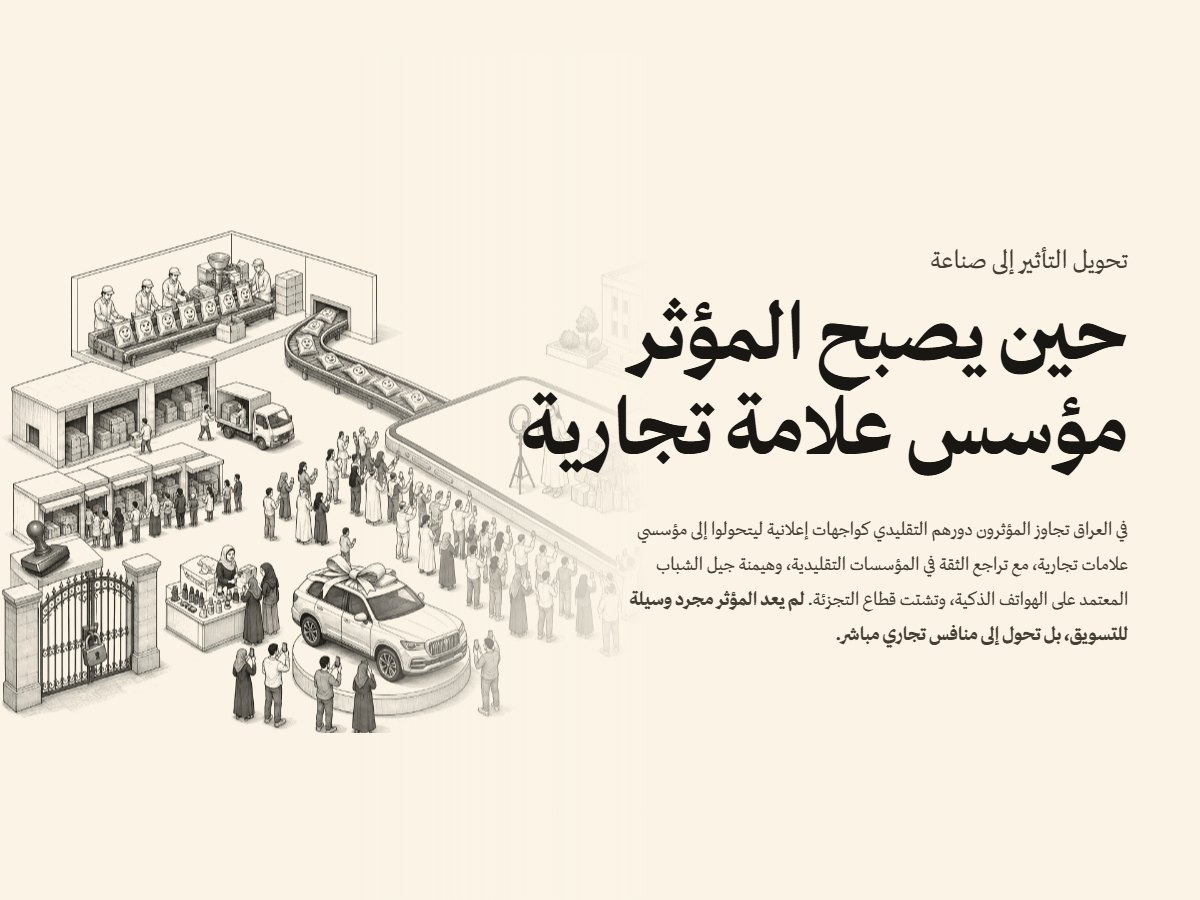
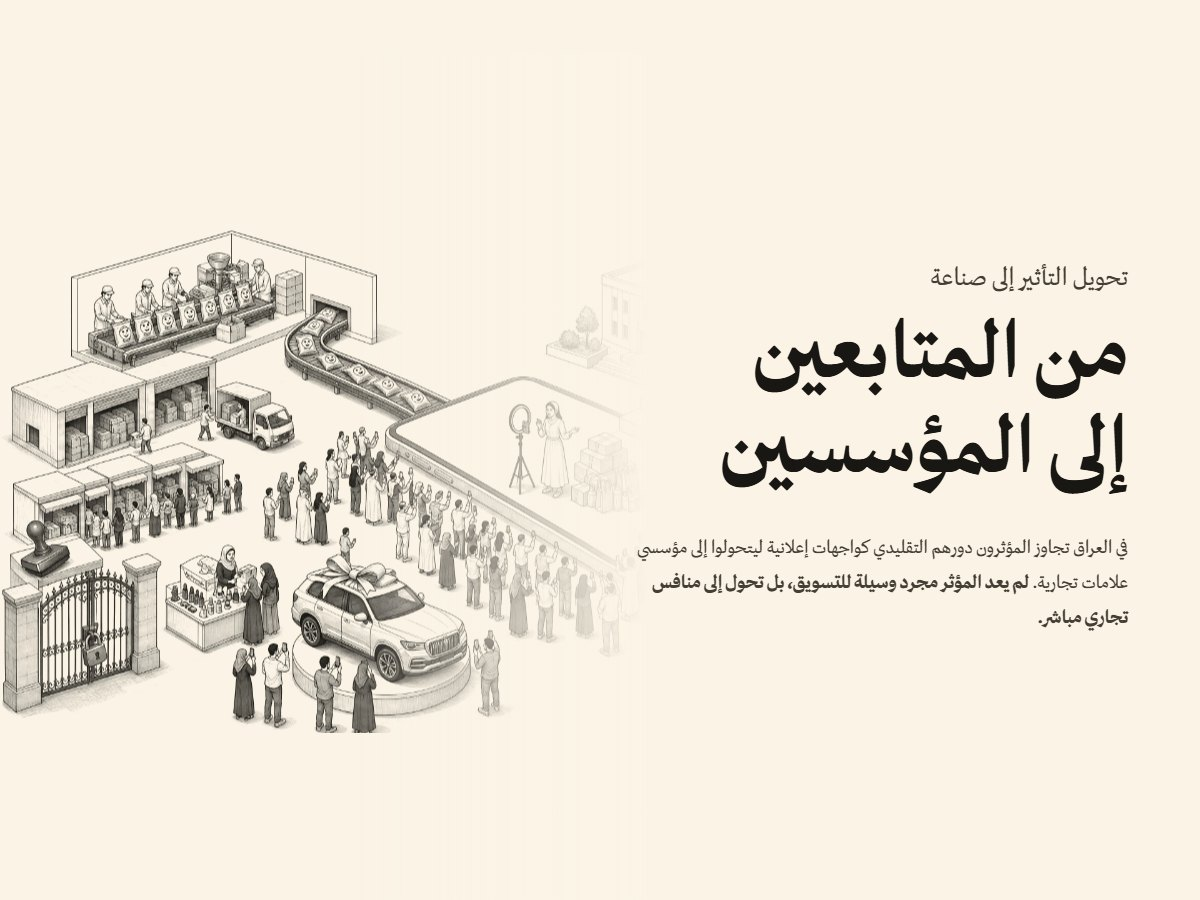
Shorter titles in both editions, so the English fits the screen

Changed region(s): [[0.4317, 0.28, 0.9558, 0.7156]]

diff --git a/iraq-creator-economy-ar/index.html b/iraq-creator-economy-ar/index.html
@@ -605,8 +605,8 @@
       <div class="flow" id="flow">
 
         <header class="opening" data-kind="scene" data-layer="v-world" data-x="0.5000" data-y="0.5000" data-span="all" data-fb-layer="v-world" data-fb-x="0.5000" data-fb-y="0.5000" data-fb-span="all" data-label="الهاتف صار الأرض">
-          <h1><span class="h1-topic">تحويل التأثير إلى صناعة</span><span class="h1-main">حين يصبح المؤثر مؤسس علامة تجارية</span></h1>
-          <p class="dek">في العراق تجاوز المؤثرون دورهم التقليدي كواجهات إعلانية ليتحولوا إلى مؤسسي علامات تجارية، مع تراجع الثقة في المؤسسات التقليدية، وهيمنة جيل الشباب المعتمد على الهواتف الذكية، وتشتت قطاع التجزئة. <em>لم يعد المؤثر مجرد وسيلة للتسويق، بل تحول إلى منافس تجاري مباشر.</em></p>
+          <h1><span class="h1-topic">تحويل التأثير إلى صناعة</span><span class="h1-main">من المتابعين إلى المؤسسين</span></h1>
+          <p class="dek">في العراق تجاوز المؤثرون دورهم التقليدي كواجهات إعلانية ليتحولوا إلى مؤسسي علامات تجارية. <em>لم يعد المؤثر مجرد وسيلة للتسويق، بل تحول إلى منافس تجاري مباشر.</em></p>
           <div class="byline">
             <p><b>قراءة تفاعلية</b>نيسان 2026</p>
             <p><b>Kapita Research</b>بغداد</p>
@@ -618,7 +618,7 @@
         
         <section class="chapter" id="chapter-1" data-chapter="قبل" data-kind="scene" data-layer="v-world" data-x="0.8400" data-y="0.5200" data-span="0.320" data-fb-layer="v-world" data-fb-x="0.5000" data-fb-y="0.5000" data-fb-span="all" data-label="الطريق القديم">
           <p class="ch-num" aria-hidden="true">1</p>
-          <h2><span class="vh">الفصل 1: </span>فراغ الثقة في المؤسسات</h2>
+          <h2><span class="vh">الفصل 1: </span>فراغ الثقة</h2>
           <p>ما يمنح العراق خصوصيته الهيكلية هو غياب «نقاط الاحتكاك» التقليدية: فلا إعلام رسمي ينافس على الثقة، ولا عوائق مالية ضخمة لدخول السوق.</p>
         </section>
         
@@ -637,7 +637,7 @@
         
         <section class="beat" id="b1-2" data-kind="scene" data-layer="v-world" data-panel="chart" data-x="0.7600" data-y="0.4700" data-span="0.160" data-fb-layer="v-world" data-fb-x="0.8400" data-fb-y="0.5200" data-fb-span="0.320" data-label="تلفزيون الدولة بلا مشاهدين">
           <p class="tag">انتشار الإنترنت في العراق</p>
-          <h3>من أسرع المسارات في المنطقة</h3>
+          <h3>من الأسرع في المنطقة</h3>
           
           
           <figure class="viz chart viz-bars" style="--vw:6ch">
@@ -661,7 +661,7 @@
         
         <section class="beat" id="b1-3" data-kind="scene" data-layer="v-world" data-x="0.8850" data-y="0.4700" data-span="0.130" data-fb-layer="v-world" data-fb-x="0.8400" data-fb-y="0.5200" data-fb-span="0.320" data-label="ظهورهم للتلفزيون، وجوههم للهواتف">
           <p class="tag">جيل الهواتف الذكية</p>
-          <h3>برهان على نموذج اقتصادي بديل</h3>
+          <h3>نموذج اقتصادي بديل</h3>
           <p class="fig"><span class="fig-v"><bdi>42%</bdi></span><span class="fig-l">من سكان العراق دون سن 25</span></p>
           
           
@@ -674,7 +674,7 @@
         
         <section class="beat" id="b1-4" data-kind="scene" data-layer="v-world" data-x="0.8750" data-y="0.7600" data-span="0.200" data-fb-layer="v-world" data-fb-x="0.8400" data-fb-y="0.5200" data-fb-span="0.320" data-label="المقهى">
           <p class="tag">اللهجة</p>
-          <h3>اللهجة العراقية بوصفها إشارة ثقة</h3>
+          <h3>اللهجة إشارة ثقة</h3>
           
           
           
@@ -687,13 +687,13 @@
         
         <section class="chapter" id="chapter-2" data-chapter="القناة" data-kind="scene" data-layer="v-world" data-x="0.5000" data-y="0.5000" data-span="0.420" data-fb-layer="v-world" data-fb-x="0.5000" data-fb-y="0.5000" data-fb-span="all" data-label="الهاتف صار الأرض">
           <p class="ch-num" aria-hidden="true">2</p>
-          <h2><span class="vh">الفصل 2: </span>كثافة جماهيرية تتجاوز الأسواق المماثلة</h2>
+          <h2><span class="vh">الفصل 2: </span>كثافة جماهيرية غير مسبوقة</h2>
           <p>صار المبدع الفرد بمثابة «محطة بث وطنية»، وصار الشراء «امتداداً للعلاقة» معه وليس مجرد صفقة عابرة.</p>
         </section>
         
         <section class="beat" id="b2-1" data-kind="scene" data-layer="v-world" data-panel="chart" data-x="0.4500" data-y="0.4500" data-span="0.150" data-fb-layer="v-world" data-fb-x="0.5000" data-fb-y="0.5000" data-fb-span="0.420" data-label="صانعة المحتوى على الشاشة">
           <p class="tag">أبرز المنصات من حيث الوصول الإعلاني</p>
-          <h3>تيك توك يصل إلى أكثر من 90% من مستخدمي الإنترنت</h3>
+          <h3>تيك توك يصل إلى أكثر من 90%</h3>
           
           
           <figure class="viz chart viz-bars" style="--vw:11ch">
@@ -721,7 +721,7 @@
         
         <section class="beat" id="b2-2" data-kind="scene" data-layer="v-world" data-x="0.6800" data-y="0.7200" data-span="0.150" data-fb-layer="v-world" data-fb-x="0.5000" data-fb-y="0.5000" data-fb-span="0.420" data-label="الطلب وصل">
           <p class="tag">واتساب</p>
-          <h3>الشراء عبر واتساب هو السلوك الأصيل للتجارة</h3>
+          <h3>البيع يُغلق عبر واتساب</h3>
           
           
           
@@ -734,7 +734,7 @@
         
         <section class="beat" id="b2-3" data-kind="scene" data-layer="v-world" data-panel="diagram" data-x="0.6000" data-y="0.4000" data-span="0.170" data-fb-layer="v-world" data-fb-x="0.5000" data-fb-y="0.5000" data-fb-span="0.420" data-label="الدرجات الأربع">
           <p class="tag">المسار الرباعي المراحل</p>
-          <h3>أربع مراحل استراتيجية</h3>
+          <h3>أربع مراحل</h3>
           
           
           
@@ -753,7 +753,7 @@
         
         <section class="beat" id="b2-4" data-kind="scene" data-layer="v-world" data-x="0.3500" data-y="0.6000" data-span="0.240" data-fb-layer="v-world" data-fb-x="0.5000" data-fb-y="0.5000" data-fb-span="0.420" data-label="الجمهور حول الشاشة">
           <p class="tag">المرجعية الثقافية</p>
-          <h3>سلطة تُكتسب بسرعة وتُستدام دون منازع</h3>
+          <h3>سلطة دون منازع</h3>
           
           
           
@@ -798,7 +798,7 @@
         
         <section class="beat" id="b3-3" data-kind="scene" data-layer="v-world" data-x="0.3100" data-y="0.7800" data-span="0.170" data-fb-layer="v-world" data-fb-x="0.2500" data-fb-y="0.7200" data-fb-span="0.300" data-label="سيارة الجائزة">
           <p class="tag">حين يكون المؤسس هو الشخصية</p>
-          <h3>وجهه هو الغلاف وصوته هو الرسالة</h3>
+          <h3>وجهه هو الغلاف</h3>
           
           
           
@@ -811,7 +811,7 @@
         
         <section class="beat" id="b3-4" data-kind="scene" data-layer="v-world" data-x="0.7050" data-y="0.2000" data-span="0.150" data-fb-layer="v-world" data-fb-x="0.2500" data-fb-y="0.7200" data-fb-span="0.300" data-label="حملة مصرف">
           <p class="tag">ما وراء السلع الاستهلاكية</p>
-          <h3>هذا الجمهور ملك لطالب، لا لـ FIB</h3>
+          <h3>هذا الجمهور ملك لطالب</h3>
           
           
           
@@ -830,7 +830,7 @@
         
         <section class="beat" id="b4-1" data-kind="scene" data-layer="v-world" data-panel="diagram" data-x="0.1500" data-y="0.1600" data-span="0.170" data-fb-layer="v-world" data-fb-x="0.1800" data-fb-y="0.3000" data-fb-span="0.360" data-label="الوجه على الكيس">
           <p class="tag">ثلاثة نماذج للدخول إلى السوق</p>
-          <h3>لماذا تنجح الجودة والجوائز ويفشل الاسم المجرد</h3>
+          <h3>لماذا يفشل الاسم المجرد</h3>
           
           
           
@@ -869,7 +869,7 @@
         
         <section class="beat" id="b4-3" data-kind="scene" data-layer="v-world" data-x="0.1100" data-y="0.5500" data-span="0.180" data-fb-layer="v-world" data-fb-x="0.1800" data-fb-y="0.3000" data-fb-span="0.360" data-label="دكاكين تعيد الطلب">
           <p class="tag">التوزيع</p>
-          <h3>القيد هو التوزيع لا الإنتاج</h3>
+          <h3>التوزيع لا الإنتاج</h3>
           <p class="fig"><span class="fig-v"><bdi>100,000+</bdi></span><span class="fig-l">نقطة بيع يُعاد التوريد إليها</span></p>
           
           
@@ -882,7 +882,7 @@
         
         <section class="beat" id="b4-4" data-kind="scene" data-layer="v-world" data-panel="chart" data-x="0.3100" data-y="0.7400" data-span="0.110" data-fb-layer="v-world" data-fb-x="0.1800" data-fb-y="0.3000" data-fb-span="0.360" data-label="الجائزة من الربح">
           <p class="tag">السيناريو الأعلى مقابل التحفظي</p>
-          <h3>سيارتان شهرياً: 0.7% من إجمالي الربح</h3>
+          <h3>0.7% من إجمالي الربح</h3>
           
           
           <figure class="viz chart viz-share" style="--vw:5ch">
@@ -905,7 +905,7 @@
         
         <section class="chapter" id="chapter-5" data-chapter="الحدود" data-kind="scene" data-layer="v-world" data-x="0.1400" data-y="0.7000" data-span="0.280" data-fb-layer="v-world" data-fb-x="0.5000" data-fb-y="0.5000" data-fb-span="all" data-label="البوابة">
           <p class="ch-num" aria-hidden="true">5</p>
-          <h2><span class="vh">الفصل 5: </span>المسار يعمل تحت قيود حقيقية</h2>
+          <h2><span class="vh">الفصل 5: </span>قيود حقيقية</h2>
           <p>تجاهلها يُنتج صورة مشوّهة عن كيفية عمل العلامات الخاصة للمبدعين العراقيين فعلياً.</p>
         </section>
         
@@ -930,7 +930,7 @@
         
         <section class="beat" id="b5-2" data-kind="scene" data-layer="v-world" data-panel="chart" data-x="0.4700" data-y="0.4700" data-span="0.260" data-fb-layer="v-world" data-fb-x="0.1400" data-fb-y="0.7000" data-fb-span="0.280" data-label="المنصة نفسها">
           <p class="tag">خطر حظر المنصة</p>
-          <h3>لم يُمنح الحظر الموافقة، لكن الخطر حقيقي</h3>
+          <h3>خطر الحظر حقيقي</h3>
           
           
           <figure class="viz chart viz-bars" style="--vw:11ch">
@@ -954,7 +954,7 @@
         
         <section class="beat" id="b5-3" data-kind="scene" data-layer="v-world" data-x="0.5550" data-y="0.1800" data-span="0.140" data-fb-layer="v-world" data-fb-x="0.1400" data-fb-y="0.7000" data-fb-span="0.280" data-label="الجهة الرسمية">
           <p class="tag">لوائح الأخلاق العامة</p>
-          <h3>المادة 403 تطال حتى المقاطع الكوميدية</h3>
+          <h3>حتى المقاطع الكوميدية</h3>
           <p class="fig"><span class="fig-v"><bdi>1,500+</bdi></span><span class="fig-l">قضية إلكترونية مرتبطة بالأخلاق منذ 2023، ومعها أكثر من 200 اعتقال</span></p>
           
           
@@ -967,7 +967,7 @@
         
         <section class="beat" id="b5-4" data-kind="scene" data-layer="v-world" data-panel="chart" data-x="0.3000" data-y="0.2800" data-span="0.150" data-fb-layer="v-world" data-fb-x="0.1400" data-fb-y="0.7000" data-fb-span="0.280" data-label="الوجه على الكيس يُنسخ">
           <p class="tag">المنتجات المقلّدة</p>
-          <h3>تسرّب السوق الموازية والمنتجات المقلّدة</h3>
+          <h3>تسرّب المنتجات المقلّدة</h3>
           
           
           <figure class="viz chart viz-share" style="--vw:4ch">
@@ -991,7 +991,7 @@
         
         <section class="beat" id="finale" data-kind="scene" data-layer="v-world" data-x="0.5000" data-y="0.5000" data-span="all" data-fb-layer="v-world" data-fb-x="0.5000" data-fb-y="0.5000" data-fb-span="all" data-label="الهاتف صار الأرض">
           <p class="tag">الخلاصة</p>
-          <h3>المسار الأكثر كفاءة نحو علامة وطنية</h3>
+          <h3>المسار الأكثر كفاءة</h3>
           <p class="pull">في العراق، المسار الأكثر كفاءة نحو علامة تجارية استهلاكية وطنية في 2026 لا يمر عبر شبكات التوزيع أو الإعلان فوق الخط، بل عبر العلاقة الاجتماعية الافتراضية للمبدع مع جمهوره.</p>
           <p class="body">المسار سريع ومنخفض الاحتكاك ومتزايد التنافس. وللعلامات العالمية الداخلة إلى العراق: المؤثر ليس شريك توزيع بل هو منافس.</p>
           

diff --git a/iraq-creator-economy/index.html b/iraq-creator-economy/index.html
@@ -603,8 +603,8 @@
       <div class="flow" id="flow">
 
         <header class="opening" data-kind="scene" data-layer="v-world" data-x="0.5000" data-y="0.5000" data-span="all" data-fb-layer="v-world" data-fb-x="0.5000" data-fb-y="0.5000" data-fb-span="all" data-label="The phone became the land">
-          <h1><span class="h1-topic">Turning Influence into Industry</span><span class="h1-main">When the Influencer Becomes the Brand Founder</span></h1>
-          <p class="dek">In Iraq, influencers are not just advertisers: they are brand founders, out of a collapse of institutional trust, a hyper-young mobile-first population and a fragmented retail landscape. <em>The influencer is not a marketing channel: they are the competition.</em></p>
+          <h1><span class="h1-topic">Turning Influence into Industry</span><span class="h1-main">From Followers to Founders</span></h1>
+          <p class="dek">In Iraq, influencers are not just advertisers: they are brand founders. <em>The influencer is not a marketing channel: they are the competition.</em></p>
           <div class="byline">
             <p><b>Interactive Read</b>April 2026</p>
             <p><b>Kapita Research</b>Baghdad</p>
@@ -616,7 +616,7 @@
         
         <section class="chapter" id="chapter-1" data-chapter="Before" data-kind="scene" data-layer="v-world" data-x="0.8400" data-y="0.5200" data-span="0.320" data-fb-layer="v-world" data-fb-x="0.5000" data-fb-y="0.5000" data-fb-span="all" data-label="The old way">
           <p class="ch-num" aria-hidden="true">1</p>
-          <h2><span class="vh">Chapter 1: </span>The institutional trust vacuum</h2>
+          <h2><span class="vh">Chapter 1: </span>The trust vacuum</h2>
           <p>What makes Iraq structurally distinctive is that none of the usual friction points apply: there is no credible legacy media competing for audience trust, and no developed retail infrastructure requiring expensive entry.</p>
         </section>
         
@@ -635,7 +635,7 @@
         
         <section class="beat" id="b1-2" data-kind="scene" data-layer="v-world" data-panel="chart" data-x="0.7600" data-y="0.4700" data-span="0.160" data-fb-layer="v-world" data-fb-x="0.8400" data-fb-y="0.5200" data-fb-span="0.320" data-label="State television, empty chairs">
           <p class="tag">Internet penetration in Iraq</p>
-          <h3>One of the fastest trajectories in MENA</h3>
+          <h3>One of the fastest in MENA</h3>
           
           
           <figure class="viz chart viz-bars" style="--vw:6ch">
@@ -659,7 +659,7 @@
         
         <section class="beat" id="b1-3" data-kind="scene" data-layer="v-world" data-x="0.8850" data-y="0.4700" data-span="0.130" data-fb-layer="v-world" data-fb-x="0.8400" data-fb-y="0.5200" data-fb-span="0.320" data-label="Backs to the television, eyes on their phones">
           <p class="tag">A mobile-first generation</p>
-          <h3>Proof of an alternative economic model</h3>
+          <h3>An alternative economic model</h3>
           <p class="fig"><span class="fig-v"><bdi>42%</bdi></span><span class="fig-l">of Iraq&#39;s population is under 25</span></p>
           
           
@@ -672,7 +672,7 @@
         
         <section class="beat" id="b1-4" data-kind="scene" data-layer="v-world" data-x="0.8750" data-y="0.7600" data-span="0.200" data-fb-layer="v-world" data-fb-x="0.8400" data-fb-y="0.5200" data-fb-span="0.320" data-label="The tea house">
           <p class="tag">Dialect</p>
-          <h3>Iraqi dialect as a trust signal</h3>
+          <h3>Dialect as a trust signal</h3>
           
           
           
@@ -685,13 +685,13 @@
         
         <section class="chapter" id="chapter-2" data-chapter="The channel" data-kind="scene" data-layer="v-world" data-x="0.5000" data-y="0.5000" data-span="0.420" data-fb-layer="v-world" data-fb-x="0.5000" data-fb-y="0.5000" data-fb-span="all" data-label="The phone became the land">
           <p class="ch-num" aria-hidden="true">2</p>
-          <h2><span class="vh">Chapter 2: </span>An audience density unmatched in comparable markets</h2>
+          <h2><span class="vh">Chapter 2: </span>Unmatched audience density</h2>
           <p>A creator who masters short-form video can achieve national coverage without a television network, and followers purchase as an extension of the relationship, not merely as a market transaction.</p>
         </section>
         
         <section class="beat" id="b2-1" data-kind="scene" data-layer="v-world" data-panel="chart" data-x="0.4500" data-y="0.4500" data-span="0.150" data-fb-layer="v-world" data-fb-x="0.5000" data-fb-y="0.5000" data-fb-span="0.420" data-label="A creator on the screen">
           <p class="tag">Top platforms by ad reach</p>
-          <h3>TikTok reaches 90%+ of internet users</h3>
+          <h3>TikTok reaches 90%+ of users</h3>
           
           
           <figure class="viz chart viz-bars" style="--vw:6ch">
@@ -719,7 +719,7 @@
         
         <section class="beat" id="b2-2" data-kind="scene" data-layer="v-world" data-x="0.6800" data-y="0.7200" data-span="0.150" data-fb-layer="v-world" data-fb-x="0.5000" data-fb-y="0.5000" data-fb-span="0.420" data-label="The order arrives">
           <p class="tag">WhatsApp</p>
-          <h3>WhatsApp is the culturally native shopping mode</h3>
+          <h3>The sale closes on WhatsApp</h3>
           
           
           
@@ -732,7 +732,7 @@
         
         <section class="beat" id="b2-3" data-kind="scene" data-layer="v-world" data-panel="diagram" data-x="0.6000" data-y="0.4000" data-span="0.170" data-fb-layer="v-world" data-fb-x="0.5000" data-fb-y="0.5000" data-fb-span="0.420" data-label="Four steps">
           <p class="tag">The four-stage pipeline</p>
-          <h3>The pipeline runs in four stages</h3>
+          <h3>Four stages</h3>
           
           
           
@@ -751,7 +751,7 @@
         
         <section class="beat" id="b2-4" data-kind="scene" data-layer="v-world" data-x="0.3500" data-y="0.6000" data-span="0.240" data-fb-layer="v-world" data-fb-x="0.5000" data-fb-y="0.5000" data-fb-span="0.420" data-label="The audience around the screen">
           <p class="tag">Cultural authority</p>
-          <h3>Captured rapidly, held without challenge</h3>
+          <h3>Authority without challenge</h3>
           
           
           
@@ -770,7 +770,7 @@
         
         <section class="beat" id="b3-1" data-kind="scene" data-layer="v-world" data-x="0.2000" data-y="0.7200" data-span="0.170" data-fb-layer="v-world" data-fb-x="0.2500" data-fb-y="0.7200" data-fb-span="0.300" data-label="The beauty counter">
           <p class="tag">The archetype</p>
-          <h3>From blogger to billion-dollar brand</h3>
+          <h3>Blogger to billion-dollar brand</h3>
           <p class="fig"><span class="fig-v"><bdi>$1.2B</bdi></span><span class="fig-l">Huda Beauty valuation (2017 TSG stake)</span></p>
           
           
@@ -796,7 +796,7 @@
         
         <section class="beat" id="b3-3" data-kind="scene" data-layer="v-world" data-x="0.3100" data-y="0.7800" data-span="0.170" data-fb-layer="v-world" data-fb-x="0.2500" data-fb-y="0.7200" data-fb-span="0.300" data-label="The prize car">
           <p class="tag">When the founder is the character</p>
-          <h3>His face on the packaging, his voice in the campaigns</h3>
+          <h3>His face on the packaging</h3>
           
           
           
@@ -809,7 +809,7 @@
         
         <section class="beat" id="b3-4" data-kind="scene" data-layer="v-world" data-x="0.7050" data-y="0.2000" data-span="0.150" data-fb-layer="v-world" data-fb-x="0.2500" data-fb-y="0.7200" data-fb-span="0.300" data-label="A bank&#39;s campaign">
           <p class="tag">Beyond consumer goods</p>
-          <h3>That audience belongs to Talib, not FIB</h3>
+          <h3>That audience belongs to Talib</h3>
           
           
           
@@ -822,13 +822,13 @@
         
         <section class="chapter" id="chapter-4" data-chapter="The arithmetic" data-kind="scene" data-layer="v-world" data-x="0.1800" data-y="0.3000" data-span="0.360" data-fb-layer="v-world" data-fb-x="0.5000" data-fb-y="0.5000" data-fb-span="all" data-label="The production belt">
           <p class="ch-num" aria-hidden="true">4</p>
-          <h2><span class="vh">Chapter 4: </span>Unit economics of the prize programme</h2>
+          <h2><span class="vh">Chapter 4: </span>Prize programme economics</h2>
           <p>How is Abu Jannah&#39;s monthly car-giveaway programme financially sustainable?</p>
         </section>
         
         <section class="beat" id="b4-1" data-kind="scene" data-layer="v-world" data-panel="diagram" data-x="0.1500" data-y="0.1600" data-span="0.170" data-fb-layer="v-world" data-fb-x="0.1800" data-fb-y="0.3000" data-fb-span="0.360" data-label="The face on the bag">
           <p class="tag">Three go-to-market models</p>
-          <h3>Why only two of them last</h3>
+          <h3>Why the name-only model fails</h3>
           
           
           
@@ -867,7 +867,7 @@
         
         <section class="beat" id="b4-3" data-kind="scene" data-layer="v-world" data-x="0.1100" data-y="0.5500" data-span="0.180" data-fb-layer="v-world" data-fb-x="0.1800" data-fb-y="0.3000" data-fb-span="0.360" data-label="Shops that reorder">
           <p class="tag">Distribution</p>
-          <h3>The constraint is distribution, not production</h3>
+          <h3>Distribution, not production</h3>
           <p class="fig"><span class="fig-v"><bdi>100,000+</bdi></span><span class="fig-l">points of sale, replenished</span></p>
           
           
@@ -880,7 +880,7 @@
         
         <section class="beat" id="b4-4" data-kind="scene" data-layer="v-world" data-panel="chart" data-x="0.3100" data-y="0.7400" data-span="0.110" data-fb-layer="v-world" data-fb-x="0.1800" data-fb-y="0.3000" data-fb-span="0.360" data-label="Prizes paid from profit">
           <p class="tag">Headline vs. conservative economics</p>
-          <h3>Two cars a month: 0.7% of gross profit</h3>
+          <h3>0.7% of gross profit</h3>
           
           
           <figure class="viz chart viz-share" style="--vw:5ch">
@@ -903,7 +903,7 @@
         
         <section class="chapter" id="chapter-5" data-chapter="The limits" data-kind="scene" data-layer="v-world" data-x="0.1400" data-y="0.7000" data-span="0.280" data-fb-layer="v-world" data-fb-x="0.5000" data-fb-y="0.5000" data-fb-span="all" data-label="The gate">
           <p class="ch-num" aria-hidden="true">5</p>
-          <h2><span class="vh">Chapter 5: </span>The pipeline operates under real constraints</h2>
+          <h2><span class="vh">Chapter 5: </span>Real constraints</h2>
           <p>Ignoring them produces a distorted picture of how Iraqi creator brands actually function.</p>
         </section>
         
@@ -928,7 +928,7 @@
         
         <section class="beat" id="b5-2" data-kind="scene" data-layer="v-world" data-panel="chart" data-x="0.4700" data-y="0.4700" data-span="0.260" data-fb-layer="v-world" data-fb-x="0.1400" data-fb-y="0.7000" data-fb-span="0.280" data-label="The platform itself">
           <p class="tag">Platform ban risk</p>
-          <h3>No ban approved, but the risk is real</h3>
+          <h3>The ban risk is real</h3>
           
           
           <figure class="viz chart viz-bars" style="--vw:6ch">
@@ -952,7 +952,7 @@
         
         <section class="beat" id="b5-3" data-kind="scene" data-layer="v-world" data-x="0.5550" data-y="0.1800" data-span="0.140" data-fb-layer="v-world" data-fb-x="0.1400" data-fb-y="0.7000" data-fb-span="0.280" data-label="The authorities">
           <p class="tag">Morality regulations</p>
-          <h3>Article 403 reaches even comedy videos</h3>
+          <h3>Even comedy videos</h3>
           <p class="fig"><span class="fig-v"><bdi>1,500+</bdi></span><span class="fig-l">morality-linked cyber cases since 2023, with over 200 arrests</span></p>
           
           
@@ -965,7 +965,7 @@
         
         <section class="beat" id="b5-4" data-kind="scene" data-layer="v-world" data-panel="chart" data-x="0.3000" data-y="0.2800" data-span="0.150" data-fb-layer="v-world" data-fb-x="0.1400" data-fb-y="0.7000" data-fb-span="0.280" data-label="The face on the bag, copied">
           <p class="tag">Counterfeits</p>
-          <h3>Counterfeit and grey-market leakage</h3>
+          <h3>Counterfeit leakage</h3>
           
           
           <figure class="viz chart viz-share" style="--vw:4ch">
@@ -989,7 +989,7 @@
         
         <section class="beat" id="finale" data-kind="scene" data-layer="v-world" data-x="0.5000" data-y="0.5000" data-span="all" data-fb-layer="v-world" data-fb-x="0.5000" data-fb-y="0.5000" data-fb-span="all" data-label="The phone became the land">
           <p class="tag">In short</p>
-          <h3>The most efficient route to a national brand</h3>
+          <h3>The most efficient route</h3>
           <p class="pull">In Iraq, the most efficient route to a national consumer brand in 2026 runs not through retail distribution or above-the-line advertising, but through a creator&#39;s parasocial relationship with their audience.</p>
           <p class="body">The pipeline is fast, low-friction, and increasingly contested. For global brands entering Iraq, the influencer is not a distribution partner: they are a competitor.</p>
           
